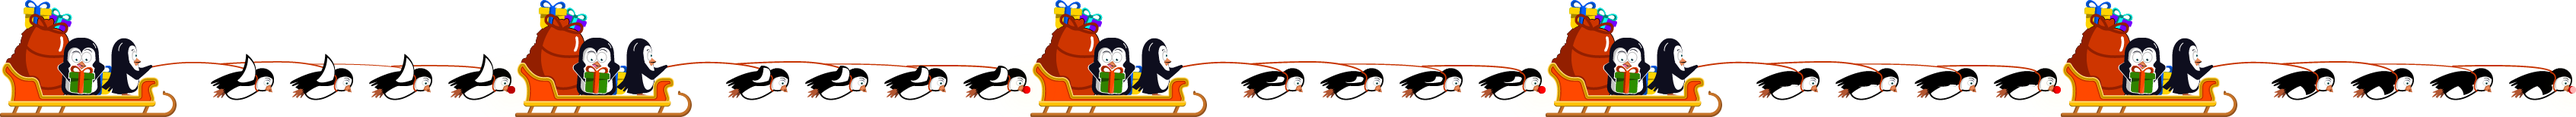
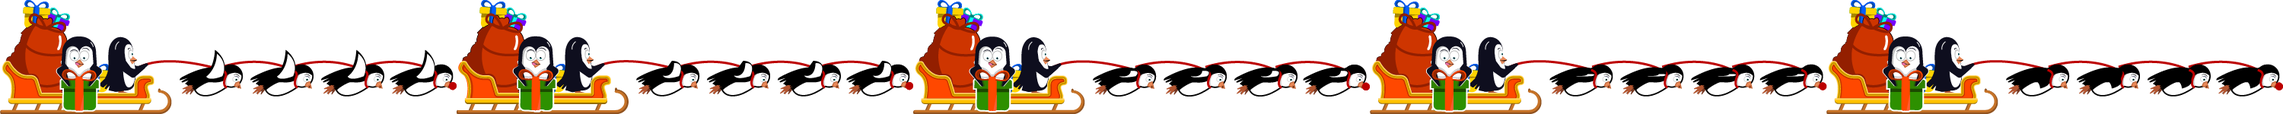
variable gift size

Changed region(s): [[0.0, 0.0, 1.0, 1.0]]

diff --git a/src/client/app/home/game.service.ts b/src/client/app/home/game.service.ts
@@ -121,6 +121,7 @@ export class GameService {
                     const level = this.configService.levels.find(x => x.id === levelOverride.id);
                     if (level) {
                         level.speed = levelOverride.speed;
+                        level.giftSize = levelOverride.giftSize;
                         level.houses = [];
                         for (const house of levelOverride.houses) {
                             level.houses.push(this.configService.createHouse((<any>house).size, (<any>house).position));
@@ -244,7 +245,7 @@ export class GameService {
     createHouse(house: House) {
         // Mesh
         const mesh = MeshBuilder
-            .CreateBox(`housePlane-${this.objects.house.mesh.length + 1}`,
+            .CreateBox(`houseBox-${this.objects.house.mesh.length + 1}`,
                 { width: house.size.width, height: house.size.fullHeight }, this.scene);
         // mesh.material = this.objects.house.material[house.size.name];
         mesh.position.x = house.previousHousePosition;
@@ -261,7 +262,7 @@ export class GameService {
 
         // House collision wrapper
         const houseCollisionMesh = MeshBuilder
-            .CreateBox(`housePlane-${this.objects.house.mesh.length + 1}-inner`,
+            .CreateBox(`houseBox-${this.objects.house.mesh.length + 1}-inner`,
                 { width: house.size.width, height: house.size.height, depth: 4 }, this.scene);
         houseCollisionMesh.position.y = (house.size.fullHeight - house.size.height) / 2 * -1;
         houseCollisionMesh.visibility = 0;
@@ -277,7 +278,7 @@ export class GameService {
 
         // Create Gift Drop Zone
         const dropZone = MeshBuilder
-            .CreateGround(`dropZonePlane-${this.objects.house.mesh.length + 1}`, { width: 1, height: 4 }, this.scene);
+            .CreateGround(`dropZoneGround-${this.objects.house.mesh.length + 1}`, { width: 1, height: 4 }, this.scene);
         dropZone.position.x = (house.size.width / 2 * -1) + house.size.chimneyPosition + 0.5 /*half ground width*/;
         dropZone.position.y = (house.size.height / 2);
         dropZone.parent = mesh;
@@ -323,12 +324,12 @@ export class GameService {
     createSleigh() {
         // Load
         this.objects.sleigh.spriteManager = new SpriteManager('sleighSpriteManager', 'assets/game/images/sleigh.png',
-            1, { width: 677, height: 155 }, this.scene);
+            1, { width: 600, height: 150 }, this.scene);
 
         // Sprite
         const sprite = new Sprite(`sleighSprite`, this.objects.sleigh.spriteManager!);
-        sprite.width = 6.77;
-        sprite.height = 1.55;
+        sprite.width = 6;
+        sprite.height = 1.5;
         sprite.position.x = -1;
         sprite.position.y = 4;
 
@@ -341,7 +342,7 @@ export class GameService {
     createBackground(x: number) {
         // Mesh
         const mesh = MeshBuilder
-            .CreateBox(`backgroundPlane-${this.objects.background.mesh.length + 1}`, { width: 18, height: 10 }, this.scene);
+            .CreateBox(`backgroundBox-${this.objects.background.mesh.length + 1}`, { width: 18, height: 10 }, this.scene);
 
         mesh.material = this.objects.background.material;
         mesh.position.x = x;
@@ -366,7 +367,7 @@ export class GameService {
 
     createGiftMesh() {
         const mesh = MeshBuilder
-            .CreateBox(`sourceGiftPlane`, { size: 0.5 }, this.scene);
+            .CreateBox(`sourceGiftBox`, { size: this.level!.giftSize }, this.scene);
         mesh.material = this.objects.gift.material;
         mesh.position.y = -10;
 
@@ -376,7 +377,7 @@ export class GameService {
 
     createGift(x: number) {
         // Mesh
-        const mesh = this.objects.gift.sourceMesh!.clone(`giftPlane-${this.objects.gift.mesh.length + 1}`, undefined, false, false);
+        const mesh = this.objects.gift.sourceMesh!.clone(`giftBox-${this.objects.gift.mesh.length + 1}`, undefined, false, false);
         mesh.position.x = x - 2;
         mesh.position.y = 3.5;
         // TODO: fix gift going behind the house
@@ -395,7 +396,7 @@ export class GameService {
         this.objects.gift.mesh.push(mesh);
 
         // GLTF object
-        // const gift = this.objects.gift.mesh[0].clone(`giftPlane-${this.objects.gift.mesh.length + 1}`, null);
+        // const gift = this.objects.gift.mesh[0].clone(`giftBox-${this.objects.gift.mesh.length + 1}`, null);
         // gift.position.x = x - 2;
         // gift.position.y = 3.5;
     }

diff --git a/src/client/app/home/config.service.ts b/src/client/app/home/config.service.ts
@@ -40,6 +40,7 @@ const levels: Array<Level> = [
     {
         id: 1,
         speed: 0.04,
+        giftSize: 0.5,
         houses: [
             new House(HouseSize.small, 3),
             new House(HouseSize.small, 2),
@@ -66,6 +67,7 @@ const levels: Array<Level> = [
     {
         id: 2,
         speed: 0.04,
+        giftSize: 0.5,
         houses: [
             new House(HouseSize.small, 3),
             new House(HouseSize.small, 2),
@@ -92,6 +94,7 @@ const levels: Array<Level> = [
     {
         id: 3,
         speed: 0.04,
+        giftSize: 0.5,
         houses: [
             new House(HouseSize.small, 3),
             new House(HouseSize.small, 2),
@@ -118,6 +121,7 @@ const levels: Array<Level> = [
     {
         id: 4,
         speed: 0.04,
+        giftSize: 0.5,
         houses: [
             new House(HouseSize.small, 3),
             new House(HouseSize.small, 2),
@@ -144,6 +148,7 @@ const levels: Array<Level> = [
     {
         id: 5,
         speed: 0.04,
+        giftSize: 0.5,
         houses: [
             new House(HouseSize.small, 3),
             new House(HouseSize.small, 2),
@@ -170,6 +175,7 @@ const levels: Array<Level> = [
     {
         id: 6,
         speed: 0.04,
+        giftSize: 0.5,
         houses: [
             new House(HouseSize.small, 3),
             new House(HouseSize.small, 2),
@@ -196,6 +202,7 @@ const levels: Array<Level> = [
     {
         id: 7,
         speed: 0.04,
+        giftSize: 0.5,
         houses: [
             new House(HouseSize.small, 3),
             new House(HouseSize.small, 2),
@@ -222,6 +229,7 @@ const levels: Array<Level> = [
     {
         id: 8,
         speed: 0.04,
+        giftSize: 0.5,
         houses: [
             new House(HouseSize.small, 3),
             new House(HouseSize.small, 2),
@@ -248,6 +256,7 @@ const levels: Array<Level> = [
     {
         id: 9,
         speed: 0.04,
+        giftSize: 0.5,
         houses: [
             new House(HouseSize.small, 3),
             new House(HouseSize.small, 2),
@@ -274,6 +283,7 @@ const levels: Array<Level> = [
     {
         id: 10,
         speed: 0.04,
+        giftSize: 0.5,
         houses: [
             new House(HouseSize.small, 3),
             new House(HouseSize.small, 2),

diff --git a/src/client/app/home/settings/settings.component.ts b/src/client/app/home/settings/settings.component.ts
@@ -9,27 +9,4 @@ import { HomeService } from '../home.service';
 export class SettingsComponent {
 
   constructor(public homeService: HomeService) { }
-
-  getJSONExample() {
-    return JSON.stringify([
-      {
-        'id': 1,
-        'speed': 0.04,
-        'houses': [
-          { 'size': 'small', 'position': 2 },
-          { 'size': 'medium', 'position': 3 },
-          { 'size': 'large', 'position': 1 }
-        ]
-      },
-      {
-        'id': 2,
-        'speed': 0.06,
-        'houses': [
-          { 'size': 'large', 'position': 4 },
-          { 'size': 'medium', 'position': 2 },
-          { 'size': 'small', 'position': 3 }
-        ]
-      }
-    ]);
-  }
 }

diff --git a/src/client/app/home/builder-dialog/builder-dialog.component.html b/src/client/app/home/builder-dialog/builder-dialog.component.html
@@ -7,7 +7,7 @@
         Level {{level.id}}
       </mat-panel-title>
       <mat-panel-description>
-        Speed = {{level.speed}}
+        Speed = {{level.speed}} AND Gift size = {{level.giftSize}}
       </mat-panel-description>
     </mat-expansion-panel-header>
 
@@ -16,6 +16,12 @@
       max="0.1"
       step="0.01"
       [(ngModel)]="level.speed"></mat-slider>
+    <br>
+    <span>gift size</span>
+    <mat-slider min="0.1"
+      max="1"
+      step="0.1"
+      [(ngModel)]="level.giftSize"></mat-slider>
 
     <mat-card *ngFor="let house of level.houses; let i = index">
       <mat-card-subtitle>House {{i + 1}}</mat-card-subtitle>

diff --git a/src/client/app/home/models/level.ts b/src/client/app/home/models/level.ts
@@ -2,10 +2,12 @@ import { House } from './house';
 
 export class Level {
     speed: number;
+    giftSize: number;
     houses: Array<House>;
 
     constructor(public id: number) {
         this.speed = 0.04;
+        this.giftSize = 0.5;
         this.houses = [];
     }
 }

diff --git a/src/client/app/home/builder-dialog/builder-dialog.component.ts b/src/client/app/home/builder-dialog/builder-dialog.component.ts
@@ -47,6 +47,7 @@ export class BuilderDialogComponent implements OnInit {
       const newLevel = {
         id: level.id,
         speed: level.speed,
+        giftSize: level.giftSize,
         houses: new Array()
       };
       for (const house of level.houses) {
